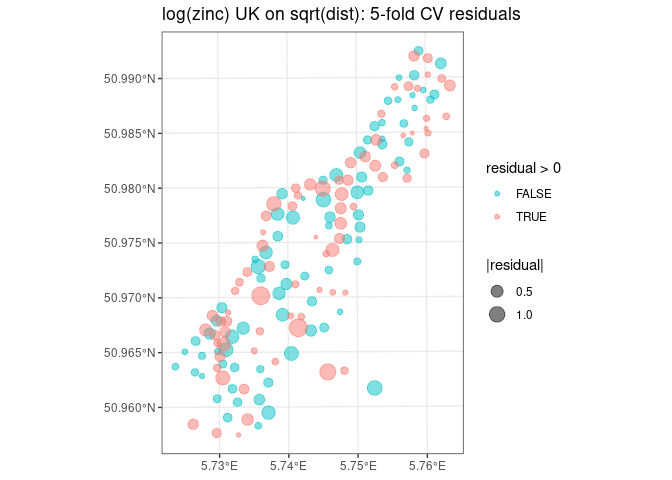
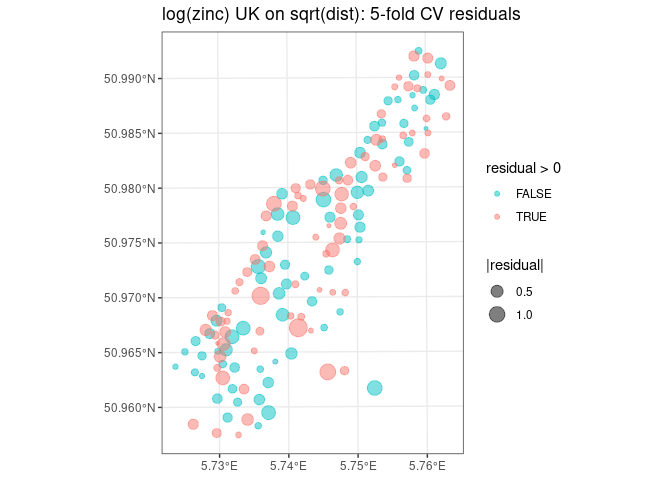
Adjusted md file for better online rendering.

diff --git a/demos/geo/Week8LabGeostatistics.md b/demos/geo/Week8LabGeostatistics.md
@@ -622,7 +622,7 @@ meuse.riv <- st_as_sf(data.frame(meuse.riv), coords=1:2, crs=st_crs(meuse)) %>%
 ggplot(data=meuse) + geom_sf() + geom_sf(data=meuse.riv)
 ```
 
-![](Week8LabGeostatistics_files/figure-html/meuse plots-1.png)<!-- -->
+![](Week8LabGeostatistics_files/figure-html/meuse plots-1.png)
 
 ```r
 # The river is too long compared to the study area
@@ -637,7 +637,7 @@ meuse.riv <- st_crop(meuse.riv, st_bbox(st_buffer(meuse, 500)))
 ggplot(data=meuse) + geom_sf() + geom_sf(data=meuse.riv)
 ```
 
-![](Week8LabGeostatistics_files/figure-html/meuse plots-2.png)<!-- -->
+![](Week8LabGeostatistics_files/figure-html/meuse plots-2.png)
 
 ```r
 # Color the zinc data based on the native scale
@@ -652,7 +652,7 @@ ggplot(data=meuse) +
   theme_bw()
 ```
 
-![](Week8LabGeostatistics_files/figure-html/meuse plots-3.png)<!-- -->
+![](Week8LabGeostatistics_files/figure-html/meuse plots-3.png)
 
 ```r
 # Color the zinc data based on the log scale
@@ -665,7 +665,7 @@ ggplot(data=meuse) +
   theme_bw()
 ```
 
-![](Week8LabGeostatistics_files/figure-html/meuse plots-4.png)<!-- -->
+![](Week8LabGeostatistics_files/figure-html/meuse plots-4.png)
 
 ```r
 # Make a bubble plot
@@ -678,7 +678,7 @@ ggplot(data=meuse) +
   theme_bw()
 ```
 
-![](Week8LabGeostatistics_files/figure-html/meuse plots-5.png)<!-- -->
+![](Week8LabGeostatistics_files/figure-html/meuse plots-5.png)
 
 ```r
 # Put these ideas together:  Size and color based on native scale
@@ -690,7 +690,7 @@ ggplot(data=meuse) +
   theme_bw()
 ```
 
-![](Week8LabGeostatistics_files/figure-html/meuse plots-6.png)<!-- -->
+![](Week8LabGeostatistics_files/figure-html/meuse plots-6.png)
 
 ### Estimating variograms
 
@@ -733,21 +733,21 @@ also uploaded to the course Canvas site.
 plot(variogram(log(zinc)~1, meuse, cloud=TRUE))
 ```
 
-![](Week8LabGeostatistics_files/figure-html/meuse empirical variogram-1.png)<!-- -->
+![](Week8LabGeostatistics_files/figure-html/meuse empirical variogram-1.png)
 
 ```r
 # plot binned variogram (the default)
 plot(variogram(log(zinc)~1, meuse))
 ```
 
-![](Week8LabGeostatistics_files/figure-html/meuse empirical variogram-2.png)<!-- -->
+![](Week8LabGeostatistics_files/figure-html/meuse empirical variogram-2.png)
 
 ```r
 # you can also show the number of points in each bin
 plot(variogram(log(zinc)~1, meuse), pl=TRUE)
 ```
 
-![](Week8LabGeostatistics_files/figure-html/meuse empirical variogram-3.png)<!-- -->
+![](Week8LabGeostatistics_files/figure-html/meuse empirical variogram-3.png)
 
 ```r
 # save the variogram cloud 
@@ -769,7 +769,7 @@ ggplot(data=vgm.meuse, aes(x = dist, y = gamma)) +
 ## `geom_smooth()` using method = 'gam' and formula 'y ~ s(x, bs = "cs")'
 ```
 
-![](Week8LabGeostatistics_files/figure-html/meuse empirical variogram-4.png)<!-- -->
+![](Week8LabGeostatistics_files/figure-html/meuse empirical variogram-4.png)
 
 
 #### Modeled variogram
@@ -811,7 +811,7 @@ v.fit
 plot(v, v.fit)
 ```
 
-![](Week8LabGeostatistics_files/figure-html/meuse modeled variogram-1.png)<!-- -->
+![](Week8LabGeostatistics_files/figure-html/meuse modeled variogram-1.png)
 
 ### Kriging
 
@@ -851,7 +851,7 @@ lzn.kr <- krige(log(zinc)~1, meuse, newdata = meuse.grid, model = v.fit)
 pl1 <- plot(lzn.kr["var1.pred"], main = "OK prediction of log(zinc)")
 ```
 
-![](Week8LabGeostatistics_files/figure-html/meuse ordinary kriging-1.png)<!-- -->
+![](Week8LabGeostatistics_files/figure-html/meuse ordinary kriging-1.png)
 
 ```r
 # calculate then plot kriging standard errors
@@ -859,7 +859,7 @@ lzn.kr$se = sqrt(lzn.kr$var1.var)
 pl2 <- plot(lzn.kr["se"], main = "OK prediction error")
 ```
 
-![](Week8LabGeostatistics_files/figure-html/meuse ordinary kriging-2.png)<!-- -->
+![](Week8LabGeostatistics_files/figure-html/meuse ordinary kriging-2.png)
 
 #### Universal kriging (UK)
 
@@ -895,7 +895,7 @@ m.uk
 plot(v.uk, model = m.uk)
 ```
 
-![](Week8LabGeostatistics_files/figure-html/meuse universal kriging-1.png)<!-- -->
+![](Week8LabGeostatistics_files/figure-html/meuse universal kriging-1.png)
 
 ```r
 # fit the universal kriging model, predicting on the meuse.grid
@@ -914,13 +914,13 @@ lzn.kr$se = sqrt(lzn.kr$var1.var)
 pl3 <- plot(lzn.kr["var1.pred"], main = "UK prediction of log-zinc")
 ```
 
-![](Week8LabGeostatistics_files/figure-html/meuse universal kriging-2.png)<!-- -->
+![](Week8LabGeostatistics_files/figure-html/meuse universal kriging-2.png)
 
 ```r
 pl4 <- plot(lzn.kr["se"], main = "UK prediction error")
 ```
 
-![](Week8LabGeostatistics_files/figure-html/meuse universal kriging-3.png)<!-- -->
+![](Week8LabGeostatistics_files/figure-html/meuse universal kriging-3.png)
 
 ### Cross-validating the kriging model using the built-in CV function `krige.cv`
 
@@ -1003,7 +1003,7 @@ meuse.CV5 <- krige.cv2(log(zinc)~1, meuse, model = v.fit, nmax = 40, nfold=5)
 krige.cv.bubble(meuse.CV5,"log(zinc) OK results: 5-fold CV residuals")
 ```
 
-![](Week8LabGeostatistics_files/figure-html/meuse cross-validation-1.png)<!-- -->
+![](Week8LabGeostatistics_files/figure-html/meuse cross-validation-1.png)
 
 ```r
 # ordinary kriging, LOOCV
@@ -1013,7 +1013,7 @@ meuse.CVLOO <- krige.cv2(log(zinc)~1, meuse, model = v.fit, nmax = 40)
 krige.cv.bubble(meuse.CVLOO, "log(zinc) OK results: LOO CV residuals")
 ```
 
-![](Week8LabGeostatistics_files/figure-html/meuse cross-validation-2.png)<!-- -->
+![](Week8LabGeostatistics_files/figure-html/meuse cross-validation-2.png)
 
 ```r
 # universal kriging, 5-fold cross-validation 
@@ -1025,7 +1025,7 @@ meuse.CV5uk <-
 krige.cv.bubble(meuse.CV5uk,"log(zinc) UK on sqrt(dist): 5-fold CV residuals")
 ```
 
-![](Week8LabGeostatistics_files/figure-html/meuse cross-validation-3.png)<!-- -->
+![](Week8LabGeostatistics_files/figure-html/meuse cross-validation-3.png)
 
 ```r
 # universal kriging, LOOCV
@@ -1036,7 +1036,7 @@ meuse.CVLOOuk <- krige.cv2(log(zinc)~sqrt(dist), meuse,
 krige.cv.bubble(meuse.CVLOOuk,"log(zinc) UK on sqrt(dist): LOO CV residuals")
 ```
 
-![](Week8LabGeostatistics_files/figure-html/meuse cross-validation-4.png)<!-- -->
+![](Week8LabGeostatistics_files/figure-html/meuse cross-validation-4.png)
 
 ```r
 # calculate and compare performance statistics across CVs
@@ -1059,9 +1059,9 @@ Table: Summary of kriging cross-validation results for log(zinc).
 
 |Description                 |   RMSE| MSE_based_R2|
 |:---------------------------|------:|------------:|
-|OK: 5-fold CV               | 0.4268|       0.6482|
+|OK: 5-fold CV               | 0.3952|       0.6984|
 |OK: LOO CV                  | 0.3869|       0.7109|
-|UK on sqrt(dist): 5-fold CV | 0.3814|       0.7190|
+|UK on sqrt(dist): 5-fold CV | 0.3679|       0.7386|
 |UK on sqrt(dist): LOO CV    | 0.3829|       0.7169|
 
 
@@ -1300,7 +1300,7 @@ land <- suppressWarnings(st_crop(land,st_bbox(la_grid)))
 ggplot(land) + geom_sf(aes(fill=featurecla))
 ```
 
-![](Week8LabGeostatistics_files/figure-html/convert LA grid to sf-1.png)<!-- -->
+![](Week8LabGeostatistics_files/figure-html/convert LA grid to sf-1.png)
 
 ```r
 # Remove water points from la_grid
@@ -1329,7 +1329,7 @@ ggplot(data=fall) +
   theme_bw()
 ```
 
-![](Week8LabGeostatistics_files/figure-html/plot fall snapshot-1.png)<!-- -->
+![](Week8LabGeostatistics_files/figure-html/plot fall snapshot-1.png)
 
 ```r
 # we show a similar color and size varying bubble plot of the data
@@ -1340,7 +1340,7 @@ ggplot(data=fall) +
   theme_bw()
 ```
 
-![](Week8LabGeostatistics_files/figure-html/plot fall snapshot-2.png)<!-- -->
+![](Week8LabGeostatistics_files/figure-html/plot fall snapshot-2.png)
 
 ### Mapping the data
 
@@ -1390,7 +1390,7 @@ g <- ggmap(map, darken = c(0.5, "white")) + theme_void()
 g + ggtitle("Sample Map of Los Angeles for \n the area covered by the snapshot data")
 ```
 
-![](Week8LabGeostatistics_files/figure-html/LA Stamen map-1.png)<!-- -->
+![](Week8LabGeostatistics_files/figure-html/LA Stamen map-1.png)
 
 ```r
 # Add snapshot locations to the map with colors for values
@@ -1407,7 +1407,7 @@ g + geom_point(data=fall,
     ggtitle("Map of Los Angeles \n with the fall snapshot data")
 ```
 
-![](Week8LabGeostatistics_files/figure-html/LA Stamen map-2.png)<!-- -->
+![](Week8LabGeostatistics_files/figure-html/LA Stamen map-2.png)
 
 ```r
 # NOx on log scale
@@ -1420,7 +1420,7 @@ g + geom_point(data=fall,
   theme_bw()
 ```
 
-![](Week8LabGeostatistics_files/figure-html/LA Stamen map-3.png)<!-- -->
+![](Week8LabGeostatistics_files/figure-html/LA Stamen map-3.png)
 
 Note, in comparing the above map to the one displayed in Figure 2b of Mercer, a
 few observations are in order:
@@ -1447,7 +1447,7 @@ g + geom_point(data=la_grid,aes(x = st_coordinates(la_grid)[,'X'],
   theme_bw()
 ```
 
-![](Week8LabGeostatistics_files/figure-html/plot the grid on the map-1.png)<!-- -->
+![](Week8LabGeostatistics_files/figure-html/plot the grid on the map-1.png)
 
 
 ### Estimation using the snapshot data: Kriging using the common model
@@ -1494,7 +1494,7 @@ vf.fit
 plot(vf, vf.fit)
 ```
 
-![](Week8LabGeostatistics_files/figure-html/fall estimate variogram-1.png)<!-- -->
+![](Week8LabGeostatistics_files/figure-html/fall estimate variogram-1.png)
 
 ```r
 # now repeat for the UK model
@@ -1525,7 +1525,7 @@ vfc.fit
 plot(vfc, vfc.fit)
 ```
 
-![](Week8LabGeostatistics_files/figure-html/fall estimate variogram-2.png)<!-- -->
+![](Week8LabGeostatistics_files/figure-html/fall estimate variogram-2.png)
 
 ```r
 # Mercer used an exponential variogram, so refit the variogram using that:
@@ -1548,7 +1548,7 @@ vfc.fit
 plot(vfc, vfc.fit)
 ```
 
-![](Week8LabGeostatistics_files/figure-html/fall estimate variogram-3.png)<!-- -->
+![](Week8LabGeostatistics_files/figure-html/fall estimate variogram-3.png)
 
 Observe the exponential and spherical fits are almost indistinguishable
 visually.  They are also different from the Mercer paper.  This may be due to
@@ -1586,14 +1586,14 @@ fall.CVcluster.uk <- krige.cv2(ln_nox ~ D2A1 + A1_50 + A23_400 + Pop_5000 + D2C 
 krige.cv.bubble(st_transform(fall.CVcluster.ok,latlong_proj),'ln(NOx) OK: clusterwise CV residuals')
 ```
 
-![](Week8LabGeostatistics_files/figure-html/krige.cv in LA-1.png)<!-- -->
+![](Week8LabGeostatistics_files/figure-html/krige.cv in LA-1.png)
 
 ```r
 # bubble plot of UK residuals
 krige.cv.bubble(st_transform(fall.CVcluster.uk,latlong_proj),'ln(NOx) UK: clusterwise CV residuals')
 ```
 
-![](Week8LabGeostatistics_files/figure-html/krige.cv in LA-2.png)<!-- -->
+![](Week8LabGeostatistics_files/figure-html/krige.cv in LA-2.png)
 
 ```r
 # calculate and compile CV stats
@@ -1784,7 +1784,7 @@ g + geom_point(data=new_grid,aes(x = st_coordinates(new_grid)[,'X'],
     ggtitle("Map of Los Angeles \n with fall UK predictions overlaid as points")
 ```
 
-![](Week8LabGeostatistics_files/figure-html/plot the grid predictions on the map-1.png)<!-- -->
+![](Week8LabGeostatistics_files/figure-html/plot the grid predictions on the map-1.png)
 
 
 Now we show an example plotting smooth gridded predictions on the map with polygons.  The smoothing smudges the data back over the water.
@@ -1812,7 +1812,7 @@ g + stat_contour(aes(x = x, y = y, z = z, fill = ..level..), alpha = 0.07,
     ggtitle("Map of Los Angeles \n with fall UK predictions overlaid, \n smoothed predictions with interpolation")
 ```
 
-![](Week8LabGeostatistics_files/figure-html/plot smooth grid predictions on the map with polygons-1.png)<!-- -->
+![](Week8LabGeostatistics_files/figure-html/plot smooth grid predictions on the map with polygons-1.png)
 
 
 #### Ordinary kriging using the residuals from a LUR
@@ -2743,7 +2743,7 @@ lapply(c(lsf.str()), getAnywhere)
 ##   ggtitle(plot_title) +
 ##   theme_bw()
 ## }
-## <bytecode: 0x5608250f4638>
+## <bytecode: 0x556ca5cb5a58>
 ## 
 ## [[2]]
 ## A single object matching 'krige.cv.stats' was found
@@ -2768,7 +2768,7 @@ lapply(c(lsf.str()), getAnywhere)
 ##          RMSE = round(sqrt(MSE_pred), 4), 
 ##          MSE_based_R2 = round(max(1 - MSE_pred/MSE_obs, 0), 4) )
 ## }
-## <bytecode: 0x5608219545f8>
+## <bytecode: 0x556ca933b890>
 ## 
 ## [[3]]
 ## A single object matching 'krige.cv2' was found
@@ -2787,7 +2787,7 @@ lapply(c(lsf.str()), getAnywhere)
 ##   if (is.na(st_crs(krige.cv1))) {st_crs(krige.cv1) <- st_crs(locations)}
 ##   return(krige.cv1)
 ## }
-## <bytecode: 0x560825427598>
+## <bytecode: 0x556cacc04a08>
 ```
 
 
